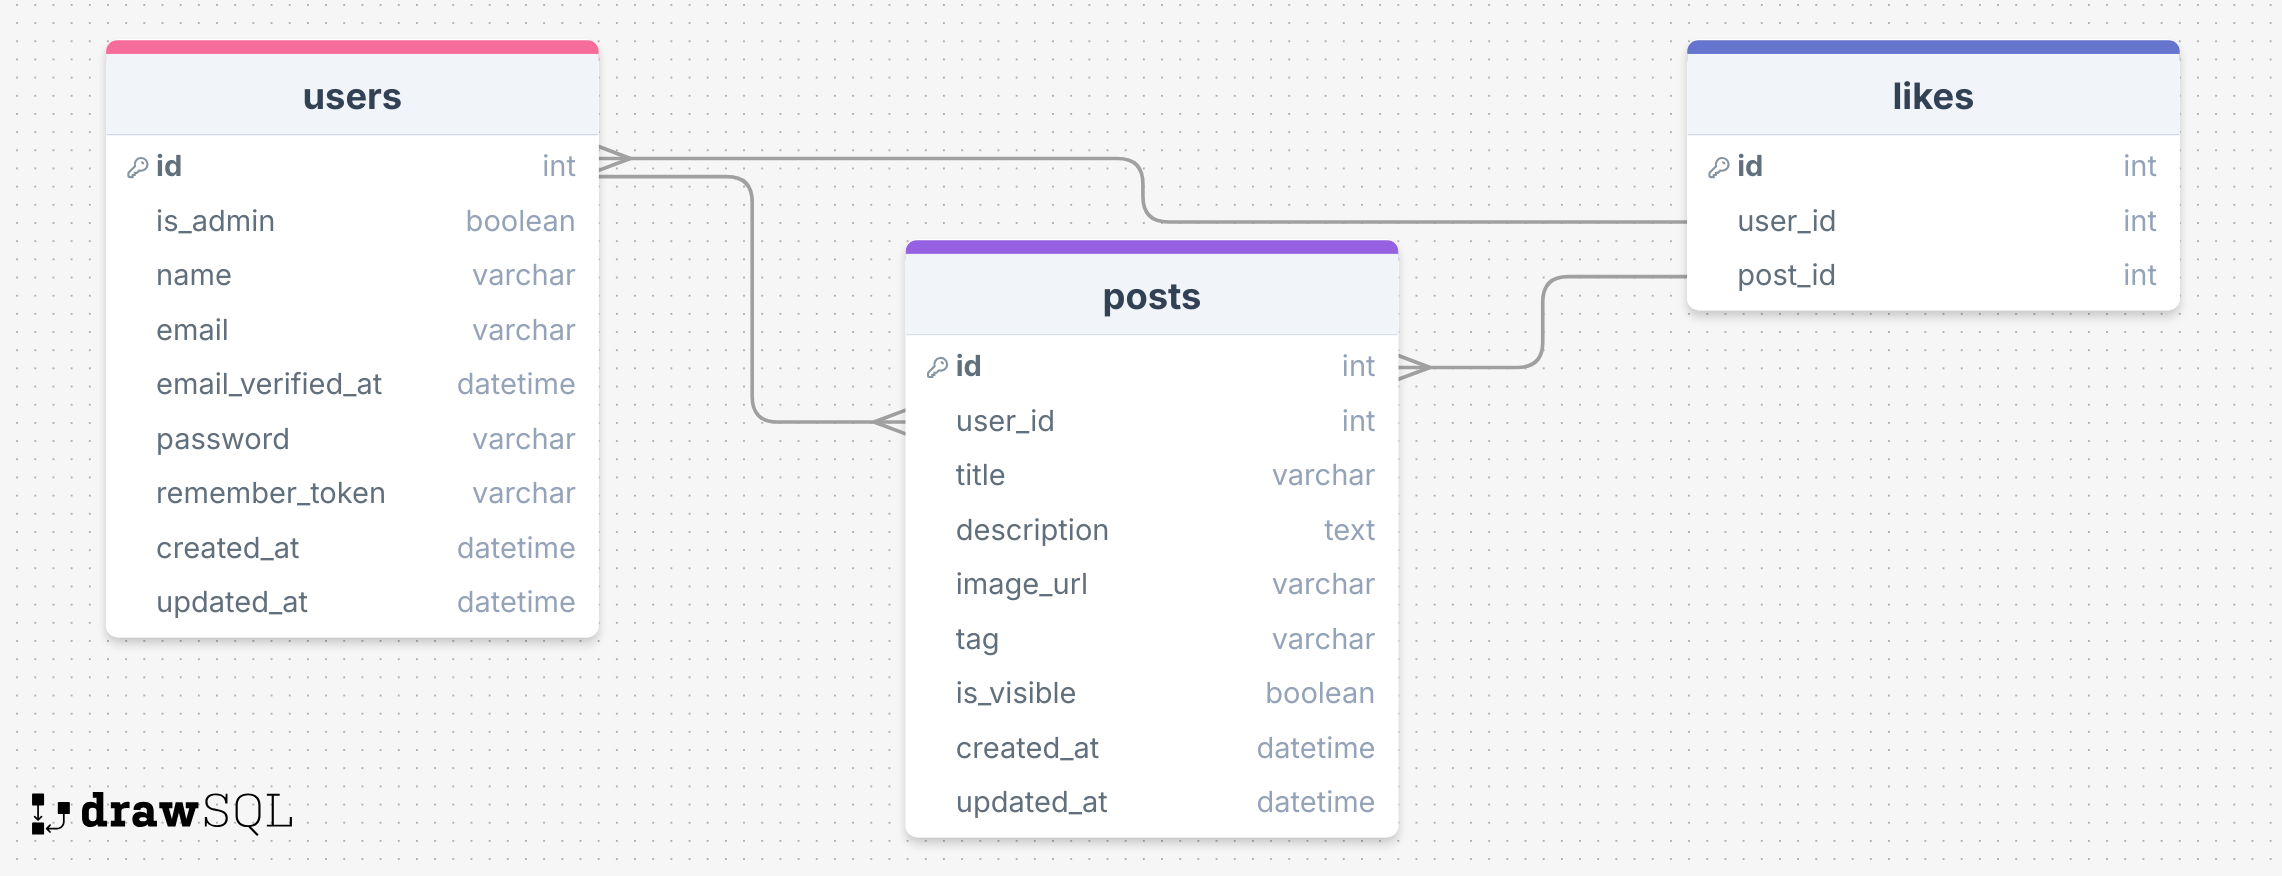
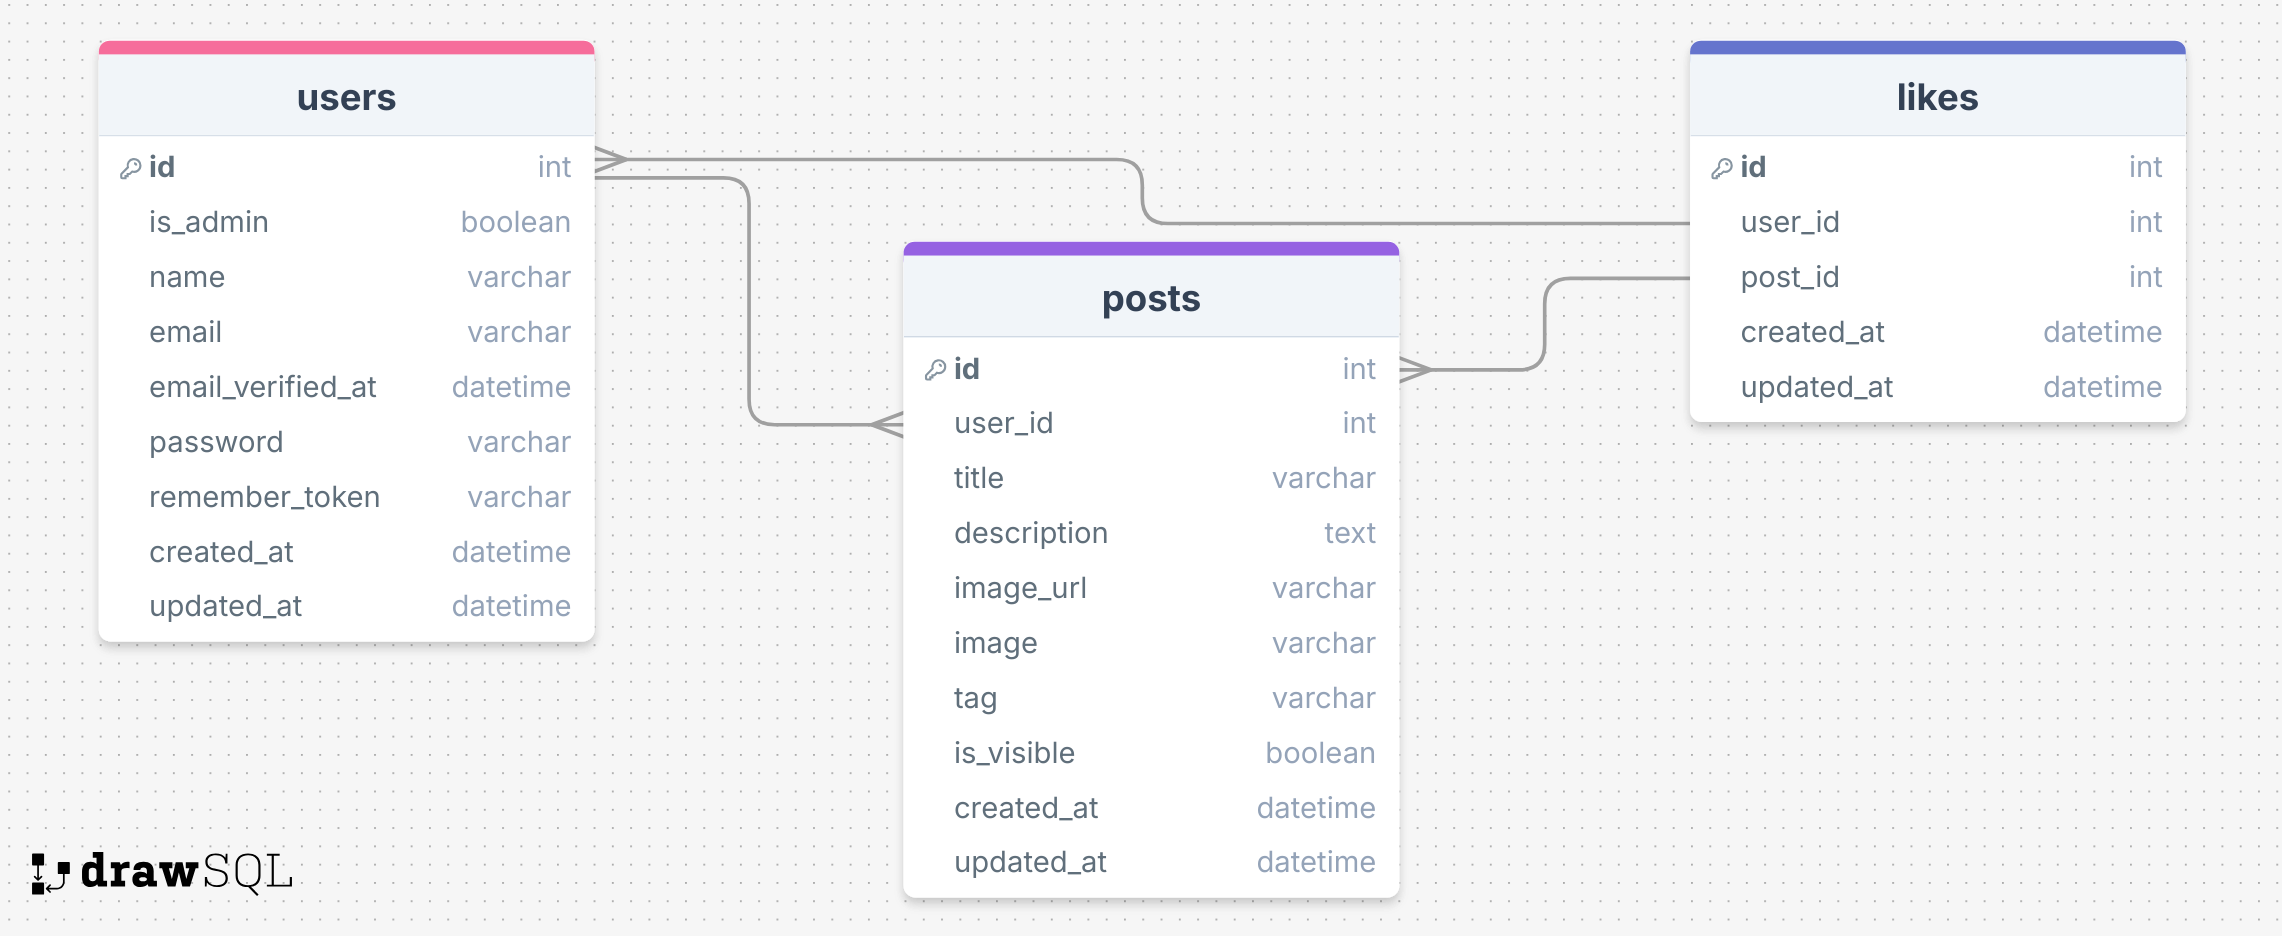
Updated changelog

diff --git a/_changelog/README.md b/_changelog/README.md
@@ -1,5 +1,8 @@
 # Changelog Laravel Eindopdracht PRG5
 
+## 25/10/2024
+* Updated ERD
+
 ## 24/10/2024
 * Bug Fixes en styling
 * Like button toegevoegd
